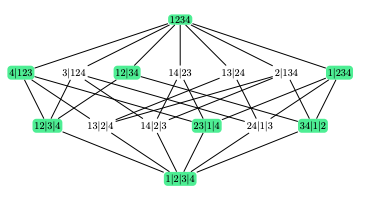
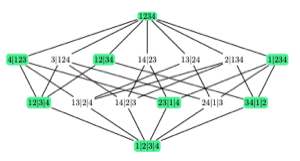
Refine content and configuration

diff --git a/_pages/about.md b/_pages/about.md
@@ -9,7 +9,6 @@ profile:
   image: prof_pic.jpg
   image_circular: false # crops the image to look like a circle
   more_info: >
-    <p>DTU - Technical University of Denmark</p>
     <p>Copenhagen, Denmark</p>
 
 news: false # includes a list of news items
@@ -18,7 +17,7 @@ social: true # includes social icons at the bottom of the page
 
 ---
 
-Hi, I am a second year PhD Student in Machine Learning at [Machine Learning for Smart Mobility](https://mlsm.man.dtu.dk/) group at [Danish Technical University](https://www.dtu.dk/). I am supervised by Professor [Francisco Camara Pereira](https://www.dtu.dk/english/person/francisco-camara-pereira?id=104358&entity=profile) and Associate Professor [Carlos M. Lima Azevedo](https://www.dtu.dk/english/person/carlos-m-lima-azevedo?id=134225&entity=profile). 
+Hi, I am a second year PhD Student in Machine Learning at [Danish Technical University](https://www.dtu.dk/). I am supervised by Professor [Francisco Camara Pereira](https://www.dtu.dk/english/person/francisco-camara-pereira?id=104358&entity=profile) and Associate Professor [Carlos M. Lima Azevedo](https://www.dtu.dk/english/person/carlos-m-lima-azevedo?id=134225&entity=profile). 
 
 I am currently working on the [APEX project](https://mlsm.man.dtu.dk/research-projects/apex/), focusing on how to use causal abstractions and active learning to improve surrogate models.
 
